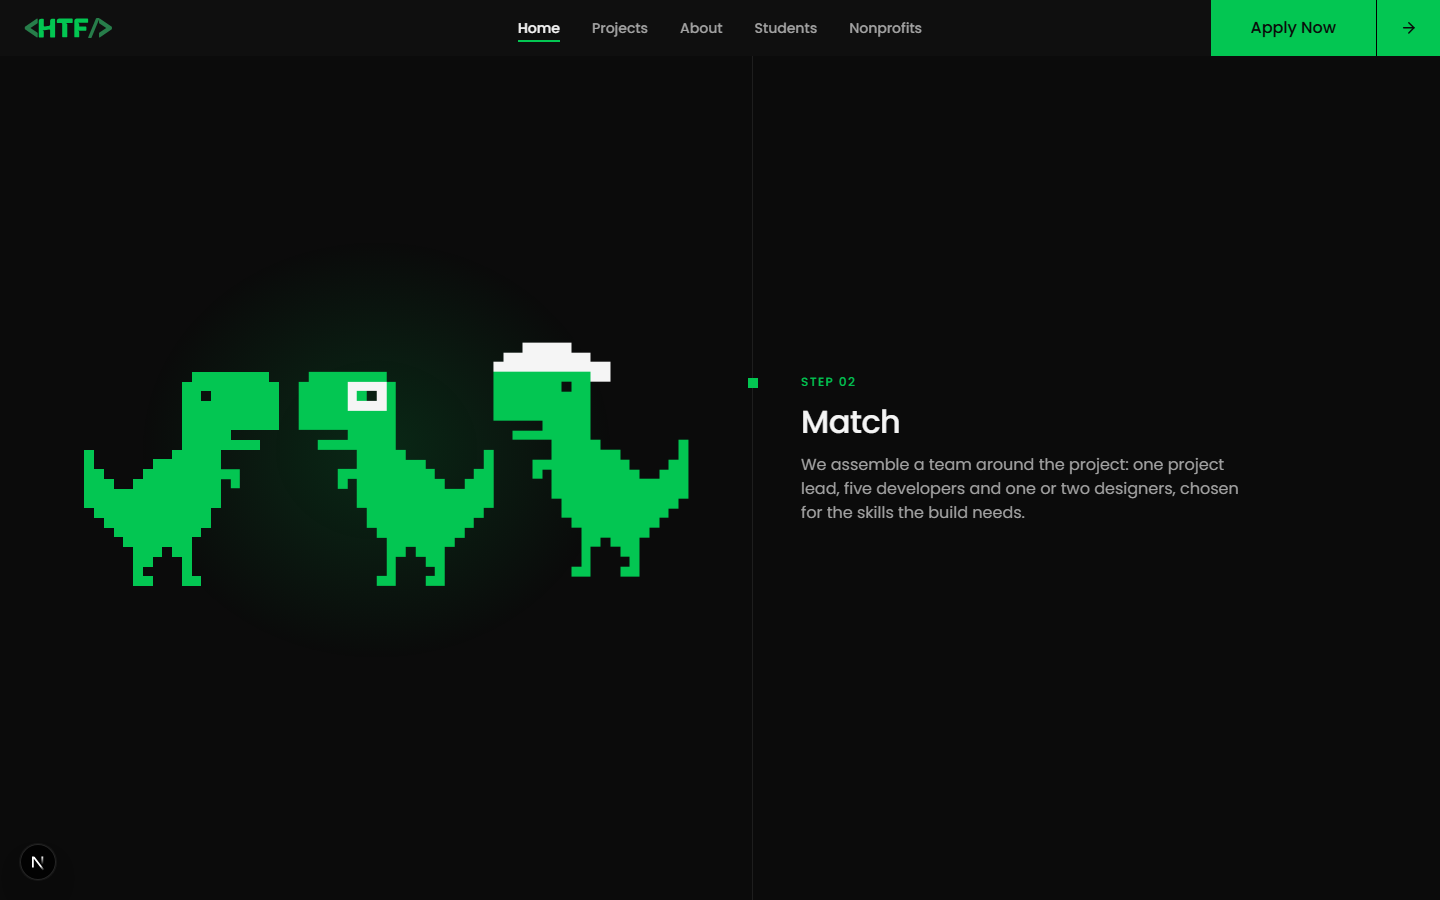
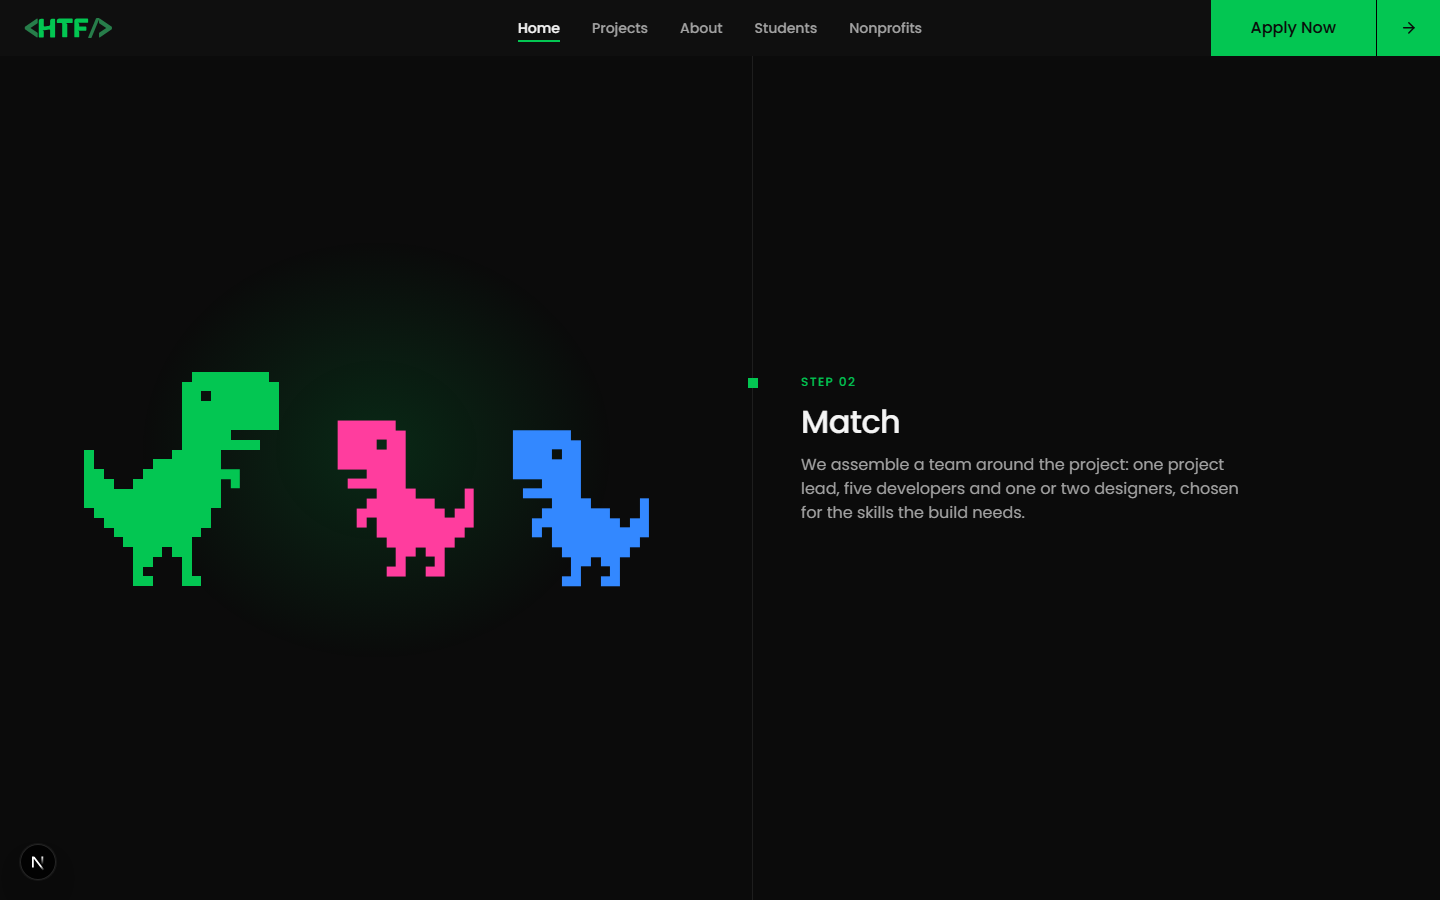
docs: session 11h follow-up, plan section 22 addendum, team screenshots
Claude-Session: https://claude.ai/code/session_011Bwqbz1xrnbmBZhafCKopb

Changed region(s): [[0.1875, 0.3733, 0.5, 0.6533]]

diff --git a/docs/PROGRESS.md b/docs/PROGRESS.md
@@ -38,7 +38,7 @@ this file. Checklist items follow the plan's phases (PLAN.md §6, §9).
 - [x] Session 11: Shift + M site configuration panel (per browser, ships hidden) with ten home hero variants (Globe stays the default; Atlas, Typewriter, Ticker, Focus, Torch, Cells, Wordmark, Rows, Photo); Ashton picks the one that ships
 - [x] Session 11b: ten Get involved graphic variants as the menu's second setting (Plane stays the default; Door, Puzzle, Canvas, Chat, Badge, Calendar, Terminal, Keycap, Signpost), all recognizable objects without the corner brackets; Ashton picks the one that ships
 - [x] Session 11f: How it works drawn with the footer T-rex (detective, team, builder, party) dissolving cell by cell between the steps
-- [x] Session 11h: the scene after Ashton's review (hats worn on the head, the team as three T-rexes, the gift arm attached and no partner, the dissolve on its own clock)
+- [x] Session 11h: the scene after Ashton's review (hats worn on the head, the team as the T-rex with two smaller pink and blue T-rexes, the gift arm attached and no partner, the dissolve on its own clock)
 
 ### Phase 3 — Depth (Session 6, pulled ahead of the portal)
 
@@ -133,8 +133,26 @@ still, `process-<width>.png` the section, `nonprofits-how-it-works-1440.png` the
 3. Nothing attached to the body is ever translated: the offer is an extra arm cell plus the
    box moving, the peer is a vertical lift (the handle's first cell stays beside the hand).
 
-**TODO:** Ashton's second look at the scene (the team's accessories, the confetti-only right
+**TODO:** Ashton's second look at the scene (the confetti-only right
 half of Deliver now that the partner is gone).
+
+**Follow-up (2026-09-09, the same session):** Ashton, on Match: "remove the different
+accessories on the 2 other dinosaurs, make those two smaller, and make one pink and one blue
+(these colors should match the style of the site)". Done: the teammates are a hand-reduced
+14 × 16 copy of the T-rex map (`SMALL_DINO` in `home/ProcessSprites.ts`, drafted by
+downsampling the 20 × 22 map at 0.7 with an area-majority vote and then redrawn so the carved
+eye, the open mouth, the arm, the tail and both legs survive), mirrored to face the lead and
+standing on its baseline, one pink and one blue, no glasses or cap; their eyelids take their
+colour (`eye.ink`). Two new tokens, built the way the greens are (full saturation, about 60%
+lightness): `--pink #FF3D9E` and `--blue #3388FF`, exposed as `--color-pink` /
+`--color-blue`, documented in CLAUDE.md and in the `/dev/ui` swatches and contrast table
+(6.0:1 and 5.7:1 on bg; decoration only, never text). Three candidate pairs were rendered
+beside the green (a softer pair and a magenta-leaning pair as well); the chosen pair follows
+the palette's construction. Checked: `pnpm typecheck`, `pnpm lint`, `pnpm build`, `pnpm a11y`
+(0 violations on `/` and `/nonprofits`), a Playwright pass at 1440 and 390 (three eyelids
+with the three fills, 7 loops in Match, no console errors); `scene-1-team-*.png`,
+`process-1440.png` and `nonprofits-how-it-works-1440.png` in
+`docs/screenshots/session-11h/` are re-captured.
 
 ## Session 11g — 2026-09-08 (the hero and Get involved shortlists)
 
@@ -1222,7 +1240,7 @@ unchanged.
 
 ## Next session starts with
 
-**First, Ashton's second look at the dino process scene** (Session 11h, `docs/screenshots/session-11h/`): the hats worn on the head, the team as three T-rexes (square glasses, backwards cap), the gift held with the arm attached and no partner, and the dissolve on its own clock (600 ms in twelve buckets in `home/ProcessScene`; the hysteresis band in `home/ProcessScroll`). The drawings are string maps in `home/ProcessSprites.ts`, the timings the `[data-mode]` rules at the end of `globals.css`.
+**First, Ashton's second look at the dino process scene** (Session 11h, `docs/screenshots/session-11h/`): the hats worn on the head, the team as two smaller pink and blue T-rexes beside the lead, the gift held with the arm attached and no partner, and the dissolve on its own clock (600 ms in twelve buckets in `home/ProcessScene`; the hysteresis band in `home/ProcessScroll`). The drawings are string maps in `home/ProcessSprites.ts`, the timings the `[data-mode]` rules at the end of `globals.css`.
 
 **Then the hero decision (Session 11 follow-up).** Six heroes remain after Session 11g
 (Globe, Atlas, Typewriter, Cells, Wordmark, Photo). Ashton opens the home page, presses

diff --git a/docs/PLAN.md b/docs/PLAN.md
@@ -279,4 +279,4 @@ Decided the same day (Session 11g): Terminal ships as the default; Chat and Badg
 
 ## 22. Amendments — the dino process scene, reviewed (September 8, 2026)
 
-Ashton's review of §21, applied the same day (Session 11h). **Hats are worn**: every hat's brim covers the head's top row and is drawn the head's width, so the deerstalker, the hard hat (now a dome with a ridge and a visor, not a cone) and the party hat sit on the head. **The team is the same dino**: Match shows the footer T-rex three times, the lead facing two mirrored teammates, one in square glasses and one in a backwards cap; the other species are gone. **Deliver has one dinosaur**: the partner is gone, the T-rex holds the gift out at its side toward the step text and the confetti falls across the whole stage; the arm stays joined to the body and to the box in every frame (it gains a cell as the box is pushed forward). **The dissolve runs on its own clock**: the scroll only picks the step (nearest step centre, with a small hysteresis band at each midpoint), and the scene then dissolves to it cell by cell over about half a second and holds, so each picture is on screen for the whole of its step and no scroll position lands inside a transition; reduced motion cuts instead. Nothing attached to the body is ever translated: the magnifying glass lifts one row rather than circling, and each moving prop is drawn as whole frames that start beside the hand.
+Ashton's review of §21, applied the same day (Session 11h). **Hats are worn**: every hat's brim covers the head's top row and is drawn the head's width, so the deerstalker, the hard hat (now a dome with a ridge and a visor, not a cone) and the party hat sit on the head. **The team is the same dino**: Match shows the footer T-rex three times, the lead facing two mirrored teammates, one in square glasses and one in a backwards cap; the other species are gone. **Deliver has one dinosaur**: the partner is gone, the T-rex holds the gift out at its side toward the step text and the confetti falls across the whole stage; the arm stays joined to the body and to the box in every frame (it gains a cell as the box is pushed forward). **The dissolve runs on its own clock**: the scroll only picks the step (nearest step centre, with a small hysteresis band at each midpoint), and the scene then dissolves to it cell by cell over about half a second and holds, so each picture is on screen for the whole of its step and no scroll position lands inside a transition; reduced motion cuts instead. Nothing attached to the body is ever translated: the magnifying glass lifts one row rather than circling, and each moving prop is drawn as whole frames that start beside the hand. Later the same day (September 9): the teammates are two smaller plain copies of the T-rex (a hand-reduced 14 × 16 map on the same grid), one pink and one blue; `--pink #FF3D9E` and `--blue #3388FF` join the palette as decoration-only tokens built like the greens, and the glasses and the cap are gone.
